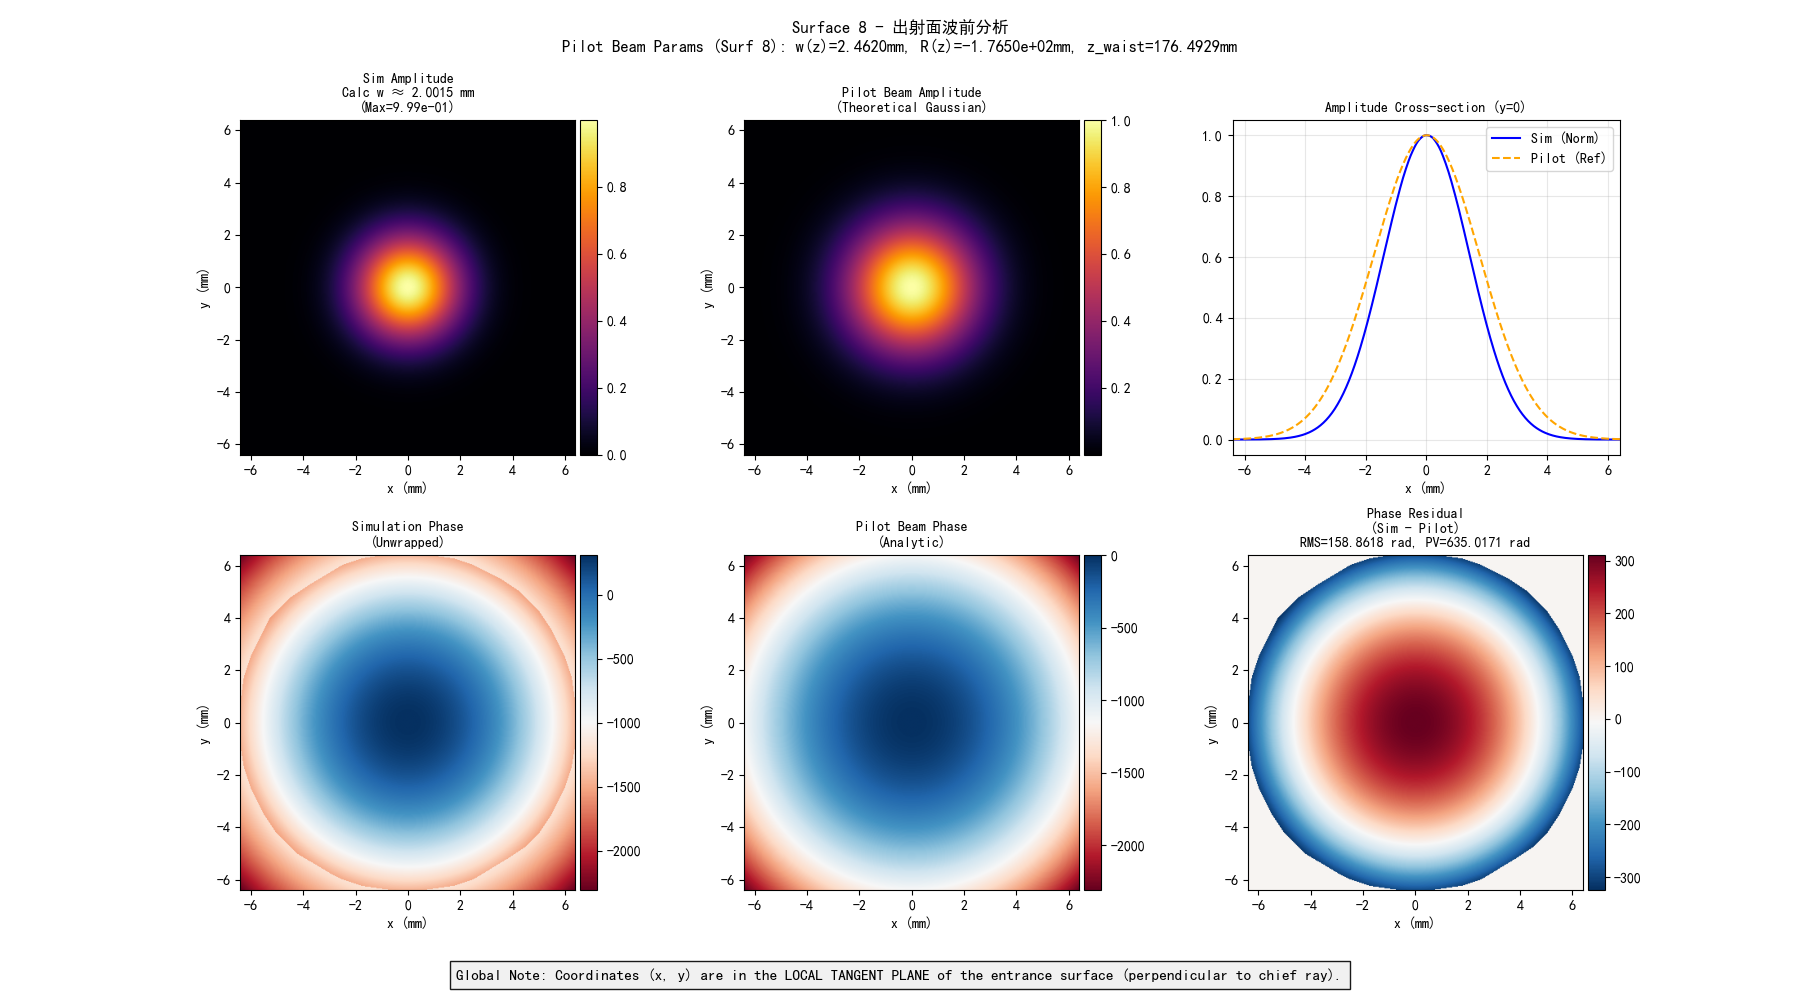
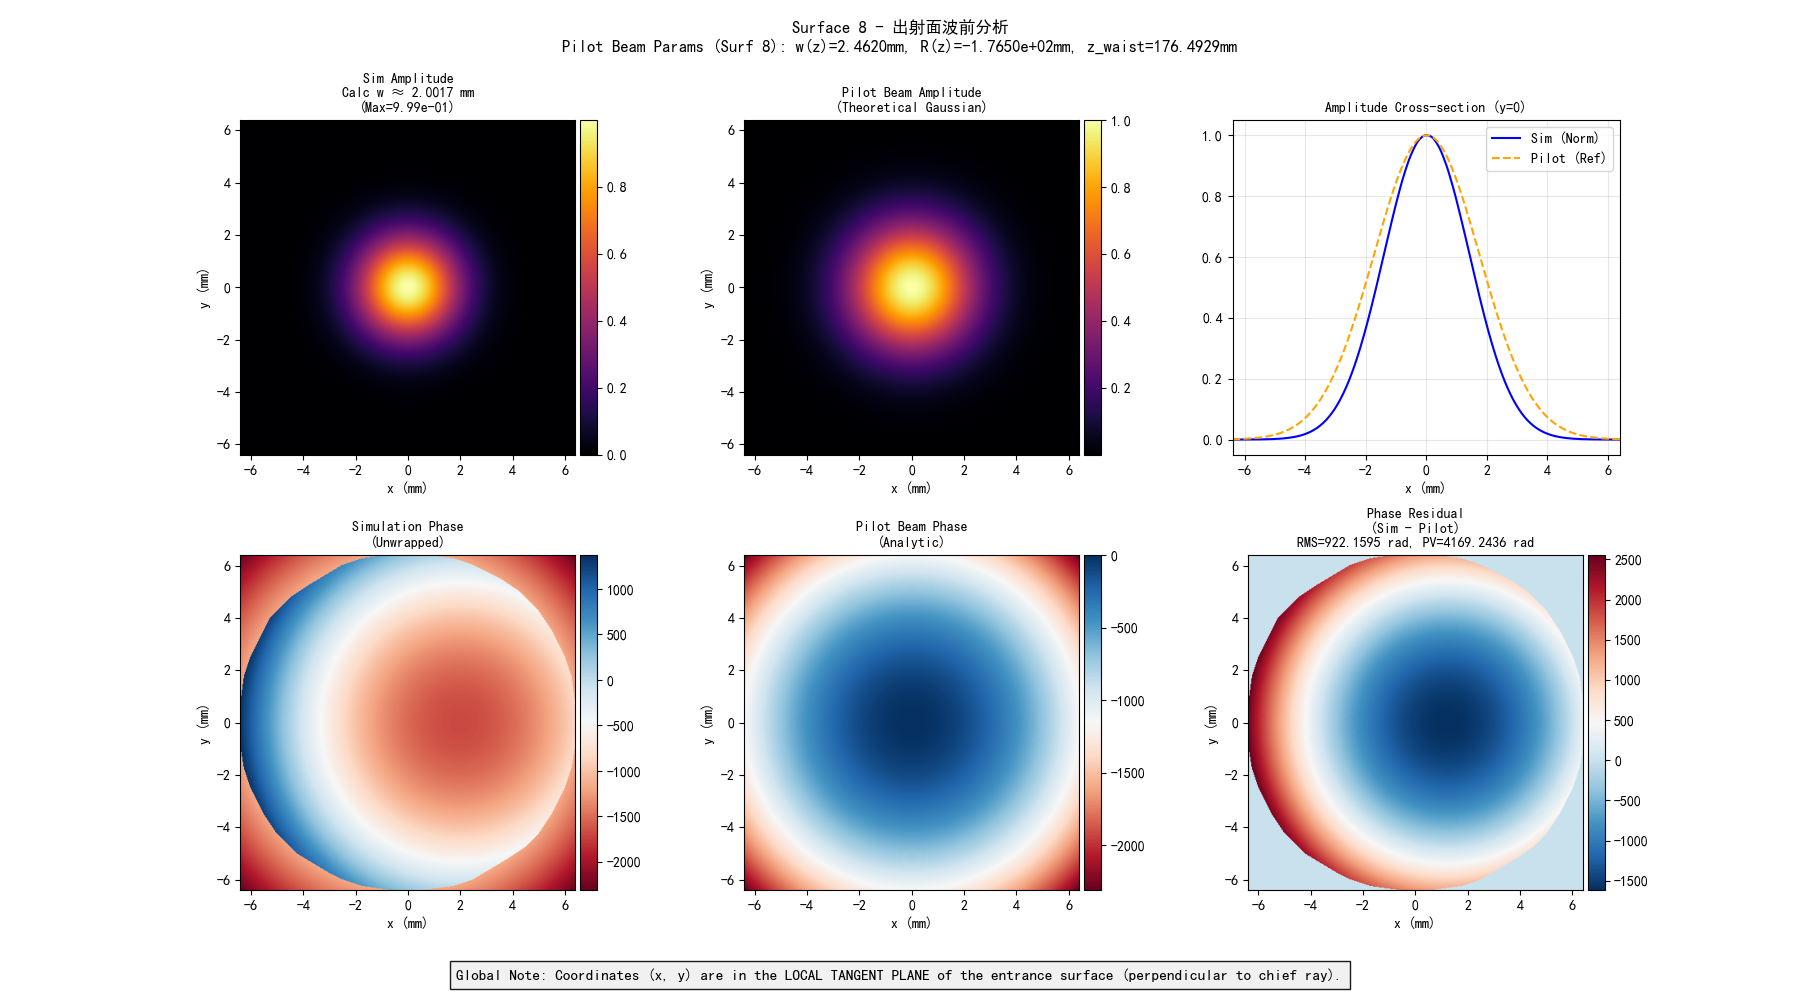
Update element_raytracer.py and add debug artifacts

Changed region(s): [[0.6844, 0.527, 0.9333, 0.899], [0.1244, 0.558, 0.3733, 0.899]]

diff --git a/debug_surface8.py b/debug_surface8.py
@@ -1,0 +1,64 @@
+"""调试 Surface 8 的曲率处理"""
+import sys
+sys.path.insert(0, 'src')
+import numpy as np
+from bts import load_zmx, GaussianSource
+
+# 加载系统
+system = load_zmx('optiland-master/tests/zemax_files/complicated_fold_mirrors_setup_v2.zmx')
+
+# 创建光源
+source = GaussianSource(
+    wavelength_um=0.633,  # 633nm
+    w0=2.0,            # 光腰 2mm
+    beam_diam_fraction=0.5
+)
+
+# 只传播到 Surface 8 和 9（透镜）
+# 先获取表面信息
+surfaces = system._global_surfaces
+print(f"总表面数: {len(surfaces)}")
+print()
+
+# Surface 8 详细输出
+s8 = surfaces[8]
+print("=== Surface 8 (BK7 入射面) ===")
+print(f"  位置: {s8.vertex_position}")
+print(f"  曲率半径: {s8.radius}")
+print(f"  材料: {s8.material}")
+print(f"  法向 (Z-axis): {s8.orientation[:, 2]}")
+
+# 模拟 _create_optic_base 中的计算
+# 假设入射方向是从 S7 到 S8
+s7 = surfaces[7]
+delta = s8.vertex_position - s7.vertex_position
+entrance_dir = delta / np.linalg.norm(delta) if np.linalg.norm(delta) > 0 else np.array([0, 0, 1])
+print(f"  入射方向 (估算): {entrance_dir}")
+
+# 计算 R_rel
+from wavefront_to_rays.element_raytracer import compute_rotation_matrix
+rotation_matrix = compute_rotation_matrix(tuple(entrance_dir))
+R_rel = rotation_matrix.T @ s8.orientation
+normal_local = R_rel[:, 2]
+L, M, N = normal_local
+print(f"  R_rel Z-axis (法向在入射坐标系): ({L:.4f}, {M:.4f}, {N:.4f})")
+print(f"  Nz = {N:.4f}")
+
+# 检查曲率翻转
+radius = s8.radius
+if N < 0:
+    print(f"  -> N < 0, 需要翻转曲率半径: {radius} -> {-radius}")
+else:
+    print(f"  -> N >= 0, 保持曲率半径: {radius}")
+    
+print()
+print("=== 运行完整仿真（只到 Surface 9）===")
+
+# 运行仿真看 Surface 8/9 的结果
+result = system.trace(source, num_surfaces=9)  # 只追迹到 Surface 9
+
+# 检查残差
+final_wf = result.get_final_wavefront()
+if final_wf is not None:
+    rms = final_wf.get_residual_rms_waves()
+    print(f"波前 RMS 残差: {rms:.4f} waves")

diff --git a/src/wavefront_to_rays/element_raytracer.py b/src/wavefront_to_rays/element_raytracer.py
@@ -1663,6 +1663,26 @@ class ElementRaytracer:
                 else:
                     tilt_y_rad = np.arctan2(L, N)
                 
+                # 3. ⚠ 关键修复：当表面法向背对入射光时，翻转曲率半径符号
+                # 
+                # 当 Nz < 0 时，表面法向朝向 -Z（入射坐标系），即背对入射光（+Z 方向）。
+                # 这意味着光线从表面的"背面"入射。
+                # 
+                # 在 optiland 中：
+                # - 曲率中心位于 vertex + R * local_z_axis
+                # - 当法向翻转后，local_z_axis 指向 -Z（全局）
+                # - 为了保持曲率中心在正确的全局位置，需要翻转 R 的符号
+                # 
+                # 几何论证：
+                # - 原始定义：曲率中心 = vertex + R * (+Z_global)
+                # - 翻转后：曲率中心 = vertex + R' * (-Z_global)
+                # - 要求两者相等：R' = -R
+                #
+                if N < 0:
+                    radius = -radius
+                    if getattr(self, 'debug', False):
+                        print(f"[DEBUG ElementRaytracer] Surface {surface_index}: Normal facing away (Nz={N:.4f}), flipping radius to {radius}")
+                
                 if getattr(self, 'debug', False):
                      print(f"[DEBUG ElementRaytracer] Surface {surface_index} Orientation:")
                      print(f"  Normal: ({L:.4f}, {M:.4f}, {N:.4f})")
